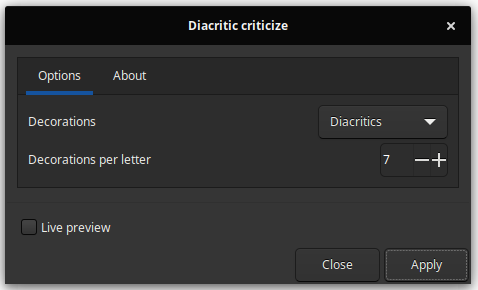
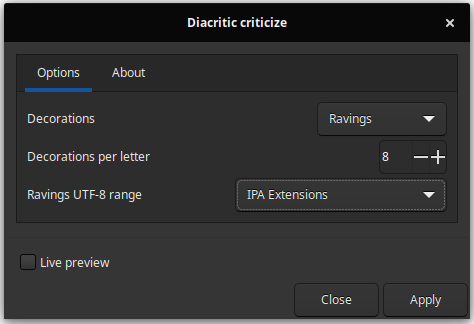
UTF-8 range menu

diff --git a/diacritic_criticize.py b/diacritic_criticize.py
@@ -6,11 +6,23 @@ import inkex
 
 class DiacriticCriticize(inkex.EffectExtension):
     """Critical assessment of the supplied boring text"""
+    UTF8_Ranges = {
+        "LatinExtendedA": (0x0100, 0x017F),
+        "LatinExtendedB": (0x0180, 0x024F),
+        "IPAExtensions": (0x0250, 0x02AF),
+        "GreekAndCoptic": (0x0370, 0x03FF),
+        "Cyrillic": (0x0400, 0x04FF),
+        "CyrillicSupplement": (0x0500, 0x052F),
+        "MathematicalOperations": (0x2200, 0x22FF),
+        "LegacyComputing": (0x1FB00, 0x1FBFF),
+        "Cuneiform": (0x12000, 0x123FF)
+    }
 
     def add_arguments(self, pars):  # type: (ArgumentParser) -> None
         pars.add_argument('--tab', help='Selected tab when ok is pressed')
         pars.add_argument('-d', '--decorations', default="chao")
         pars.add_argument('-q', '--quantity', default=5)
+        pars.add_argument('-u8r', '--utf8range', default="IPAExtensions")
 
     def diacritic_glue(self, character, count):
         ldr = 0x0300
@@ -42,11 +54,12 @@ class DiacriticCriticize(inkex.EffectExtension):
         return ''.join(criticized)
 
     def ravings(self, elem):
-        include_ranges = [
-            (0x0250, 0x02AF)
-        ]
+        include_ranges = self.fill_utf8ranges()
         alphabet = [chr(cp) for current_range in include_ranges for cp in range(current_range[0], current_range[1] + 1)]
         return ''.join(random.choice(alphabet) for i in range(len(elem.text)))
+
+    def fill_utf8ranges(self):
+        return [self.UTF8_Ranges.get(self.options.utf8range)]
 
     def create_text(self, decorated, node):
         text = inkex.TextElement(**node.attrib)

diff --git a/README.md b/README.md
@@ -29,8 +29,8 @@ each of the selected word's letters. Thus the effect adds random marks on each l
 
 ### Explorative randomness
 This effect (*Ravings* in the *Decorations* dropdown) acts as a letter-by-letter substitution engine, but using arbitrary 
-UTF-8 ranges. For now, only the [IPA Extensions](https://en.wikipedia.org/wiki/IPA_Extensions) range is enabled (0x0250 - 0x02AF)
-giving the random phonetic alphabet sign letter-for-letter.
+UTF-8 ranges. *Ravings UTF-8 range* dropdown offers the choice of UTF-8 subset for this substitution. Shown here are the random signs from
+the IPA Extensions range (0x0250, 0x02AF).
 
 ![RavingDecorations](./resources/ravings.png)
 
@@ -40,5 +40,7 @@ The last options is to combine both effects (*Diacritic ravings*).
 
 ### Todos
 
-- [ ] Include more UTF-8 ranges for *Ravings*
-- [ ] Enable the choice of ranges (like [here](https://www.utf8-chartable.de/unicode-utf8-table.pl))
+- [x] Include more UTF-8 ranges for *Ravings*
+- [x] Enable the choice of ranges (like [here](https://www.utf8-chartable.de/unicode-utf8-table.pl))
+- [ ] Extend the ranges list
+- [ ] Offer UI controls for combinations of UTF-8 ranges 
